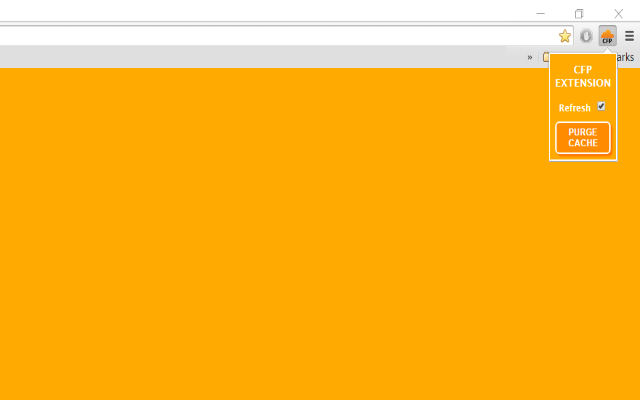
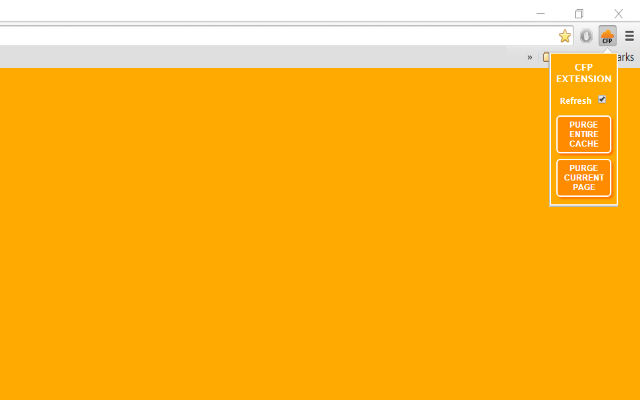
The extension now has the ability to purge the entire cache for a certain domain.

Changed region(s): [[0.8438, 0.15, 0.9688, 0.54], [0.9375, 0.12, 0.9688, 0.15]]

diff --git a/popup.js b/popup.js
@@ -16,17 +16,76 @@
 	var cloudFlarePurge = {	
 		currentUrl : null,
 		currentTabId : null,
+		promptElement : null,
 			
 		init : function() {
 			var owner = this;
-			$("#purgeButton").on("click", function(e) { 
-				e.preventDefault; 
-				owner.purgeBtnClick(); 
+			
+			this.promptElement = $("#lightbox");
+			
+			$("#purgeAllButton").on("click", function(e) {
+				e.preventDefault();	
+				owner.purgeAllBtnClick();
 			});
 			
+			$("#purgeButton").on("click", function(e) { 
+				e.preventDefault(); 
+				owner.purgeBtnClick(); 
+			});	
 		},
 		
-		purgeBtnClick : function() {
+		promptNoClick: function() {
+			this.promptElement.removeClass("active");
+		},
+		
+		promptYesClick: function(yesAction, settings) {
+			this.promptElement.removeClass("active");
+			if(typeof yesAction === "function") {
+				yesAction(settings.domain, settings.callback);	
+			}			
+		},
+		
+		showPrompt: function(yesAction, settings) {
+			this.promptElement.addClass("active");
+			var owner = this;
+			
+			$("#promptYes").on("click", function(e) {
+				e.preventDefault();
+				owner.promptYesClick(yesAction, settings); 
+			});
+			
+			$("#promptNo").on("click", function(e) {
+				e.preventDefault();
+				owner.promptNoClick(); 
+			});			
+		},
+		
+		purgeAllBtnClick: function() {
+			var owner = this;			
+			this.getCurrentTab(function(tab) {
+				var regex = /^[a-zA-Z0-9]*\./i;
+				var domain = owner.getDomain(owner.currentUrl);
+			    domain = domain.replace(domain.match(regex)[0], "");
+				
+				var settings = { domain : domain, 
+						         callback : $.proxy(owner.purgeEntireCloudflareCache, owner)
+				};
+				
+				owner.showPrompt($.proxy(owner.getCloudFlareZoneId, owner), settings);
+			});
+		},
+		
+		purgeBtnClick: function() {
+			var owner = this;			
+			this.getCurrentTab(function(tab) {
+				var regex = /^[a-zA-Z0-9]*\./i;
+				var domain = owner.getDomain(owner.currentUrl);
+			    domain = domain.replace(domain.match(regex)[0], "");
+			    owner.getCloudFlareZoneId(domain, $.proxy(owner.purgeCloudFlareUrls, owner));				
+			});
+		},
+		
+		getCurrentTab: function(callback) {
 			var owner = this;
 			var queryInfo = {
 				active : true,
@@ -38,13 +97,13 @@
 				
 				if(tab.url !== undefined) {
 					owner.currentUrl = tab.url;	
-				}
+				}	
 				
 				owner.currentTabId = tab.id;
-				var regex = /^[a-zA-Z0-9]*\./i;
-				var domain = owner.getDomain(owner.currentUrl);
-			    domain = domain.replace(domain.match(regex)[0], "");
-			    owner.getCloudFlareZoneId(domain, $.proxy(owner.purgeCloudFlareUrls, owner));
+				
+				if(typeof callback === "function") {
+					callback(tab);	
+				}
 			});
 		},
 		
@@ -74,7 +133,7 @@
 					dataType: "json",
 					success: function(data) {
 						if(data.success == true && data.result[0]) {
-							callback([owner.currentUrl], data.result[0].id, settings);
+							callback(data.result[0].id, settings);
 							return;	
 						}
 						
@@ -91,9 +150,17 @@
 			});
 		},
 		
-		purgeCloudFlareUrls: function(urls, zoneId, settings){
+		purgeCloudFlareUrls: function(zoneId, settings) {
+			var urls = [this.currentUrl];
+			this.cloudFlareApiPurgeCache({ "files": urls }, zoneId, settings);
+		},
+		
+		purgeEntireCloudflareCache: function(zoneId, settings) {
+			this.cloudFlareApiPurgeCache({ "purge_everything": true }, zoneId, settings);
+		},
+		
+		cloudFlareApiPurgeCache: function(data, zoneId, settings) {
 			var owner = this;
-			
 			$.ajax({
 					url: "https://api.cloudflare.com/client/v4/zones/" + zoneId + "/purge_cache",
 					method: "DELETE",
@@ -101,9 +168,7 @@
 				        xhr.setRequestHeader('x-auth-Email', settings.email);
 						xhr.setRequestHeader('x-auth-key', settings.key);
 				    },
-					data: JSON.stringify({
-						"files": urls
-					}),
+					data: JSON.stringify(data),
 					crossDomain: true,
 					contentType: "application/json",
 					dataType: "json",
@@ -122,8 +187,9 @@
 						$("#status").attr("class", "error");
 						owner.setStatusMessage("#status", "PURGE FAILED", 3000);
 					}
-				});
+			});				
 		},
+		
 		onPurgeSuccess : function(id, settings) {
 			$("#purgeButton").attr("class", "");
 			$("#status").attr("class", "success");

diff --git a/popup.html b/popup.html
@@ -6,14 +6,25 @@
     <link href="main.css" rel="stylesheet" type="text/css"/>
   </head>
   <body>
-    <h2>CFP EXTENSION</h2>
-    <div class="field text-center">
-      <label for="refresh">Refresh</label>
-      <input id="refresh" type="checkbox" checked value="false" />
+    <div class="holder">
+      <div id="lightbox" class="prompt">
+        <div class="field text-center">
+          Purge entire cache?
+        </div>
+        
+        <button id="promptYes">Yes</button>
+        <button id="promptNo">No</button>
+      </div>
+      <h2>CFP EXTENSION</h2>
+      <div class="field text-center">
+        <label for="refresh">Refresh</label>
+        <input id="refresh" type="checkbox" checked value="false" />
+      </div>
+      <button class="button-group" id="purgeAllButton">Purge Entire Cache</button>
+      <button class="button-group" id="purgeButton">Purge current page</button>
+      <div id="status"></div>
+      <div id="sub-status"></div>      
     </div>
-    <button id="purgeButton">Purge Cache</button>
-    <div id="status"></div>
-    <div id="sub-status"></div>
     <script src="popup.js"></script>
   </body>
 </html>

diff --git a/main.css b/main.css
@@ -37,6 +37,11 @@ button {
 	font-size: 1.0em;	
 }
 
+.button-group {
+	margin-top: 4px;
+	margin-bottom: 4px;
+}
+
 .field {
 	margin: 10px 4px;
 	font-weight: bold;
@@ -68,4 +73,19 @@ button {
 	margin: 0.5em;
 	border: 2px solid white;
 	border-radius: 6px;
+}
+
+.prompt {
+	display: none;
+	position: absolute;
+	top: 0;
+	left: 0;
+	width: 100%;
+	height: 100%;
+	z-index: 10;
+	background-color: #ff7500;
+}
+
+.prompt.active {
+	display: block;
 }
